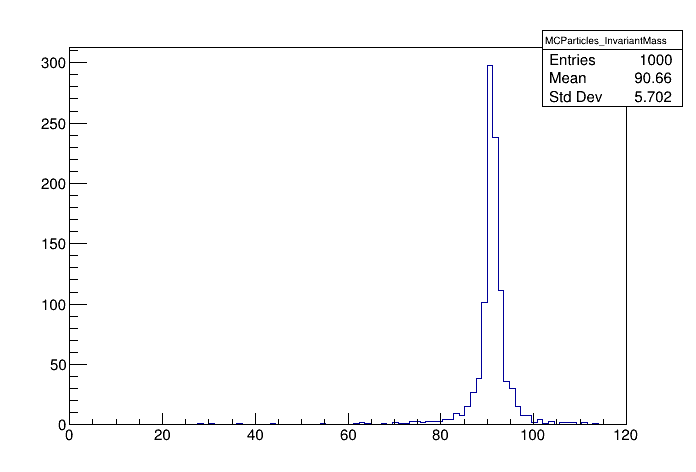
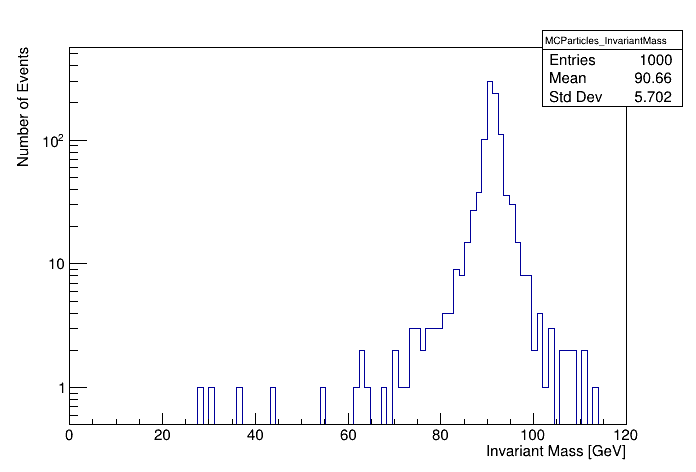
tutorial 2 fixed plot

diff --git a/02_RDFs/energy.py b/02_RDFs/energy.py
@@ -18,12 +18,17 @@ df = ROOT.RDataFrame(tree)
 df = df.Define("Invariant_Mass", "get_invariant_mass(MCParticles)")
 
 # Fill the histogram with the calculated energies
-# We defined 100 bins between 0 and 1000 GeV
 h = df.Histo1D(("MCParticles_InvariantMass", "", *(100, 0, 120)), "Invariant_Mass")
 
 # Draw the histogram
 c = ROOT.TCanvas()
+c.SetLogy()
+
+# Draw the histogram
 h.Draw()
+h.Draw()
+h.GetXaxis().SetTitle("Invariant Mass [GeV]")
+h.GetYaxis().SetTitle("Number of Events")
 c.Draw()
 
 # save the histogram
